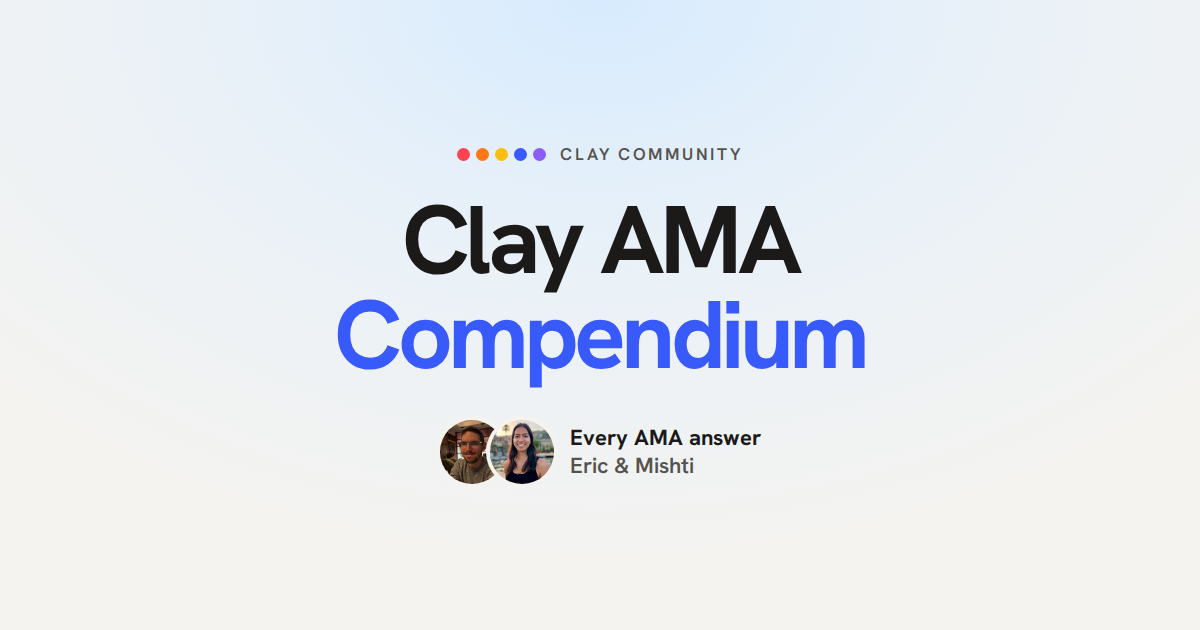
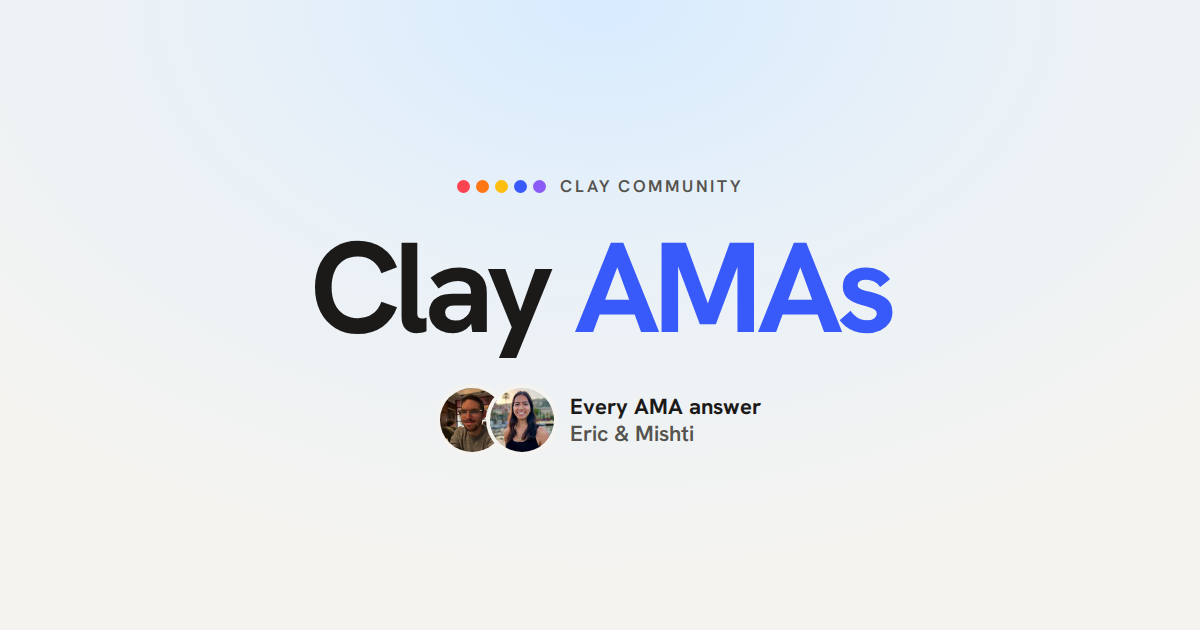
Rename to Clay AMAs
Title, masthead (AMAs in blue), tab and home-screen name, link preview image, RSS, structured data, share image, exports and Slack copy, the sign-in email and the report page. Repo, package and Vercel identifiers keep their old names.

Claude-Session: https://claude.ai/code/session_01W5nF1Z1w9NU7X8aJssRygM

Changed region(s): [[0.2467, 0.2111, 0.7708, 0.7841]]

diff --git a/src/index.html b/src/index.html
@@ -1,4 +1,4 @@
-<title>Clay AMA Compendium</title>
+<title>Clay AMAs</title>
 <link rel="preconnect" href="https://fonts.googleapis.com">
 <link rel="preconnect" href="https://fonts.gstatic.com" crossorigin>
 <link rel="stylesheet" href="https://fonts.googleapis.com/css2?family=Hanken+Grotesk:ital,wght@0,400..800;1,400&display=swap">
@@ -949,7 +949,7 @@ canvas.confetti{position:fixed; inset:0; width:100vw; height:100vh; pointer-even
 <div class="wrap">
   <header class="mast">
     <div class="eyebrow"><span class="fruit" aria-hidden="true"><i style="background:var(--f1)"></i><i style="background:var(--f2)"></i><i style="background:var(--f3)"></i><i style="background:var(--f4)"></i><i style="background:var(--f5)"></i></span><span>Unofficial<span class="long"> · From the Clay Community Slack</span></span><a class="join" id="joinBtn" href="https://www.clay.com/slack-community" target="_blank" rel="noopener">Join the community <svg width="11" height="11" viewBox="0 0 12 12" aria-hidden="true"><path d="M4.5 2.5h5v5M9.3 2.7 3 9" fill="none" stroke="currentColor" stroke-width="1.6" stroke-linecap="round" stroke-linejoin="round"/></svg></a></div>
-    <h1>Clay AMA <em>Compendium</em></h1>
+    <h1>Clay <em>AMAs</em></h1>
     <div class="stats" id="stats">Loading…</div>
     <div class="viewrow"><nav class="views" aria-label="Views"><a href="#" data-view="feed" aria-current="page">All answers</a><a href="#topics" data-view="lib">By topic</a></nav></div>
   </header>
@@ -963,7 +963,7 @@ canvas.confetti{position:fixed; inset:0; width:100vw; height:100vh; pointer-even
   </div>
   <section class="catchup" id="catchup" aria-label="Swipe mode"></section>
 
-  <section class="search" aria-label="Search the compendium">
+  <section class="search" aria-label="Search the answers">
     <form id="askForm" role="search">
       <input id="q" type="search" autocomplete="off" placeholder="Search questions, answers or people" aria-label="Search questions, answers or people">
     </form>
@@ -1286,7 +1286,7 @@ async function drawShare(){
   ctx.clearRect(0, 0, W, H); ctx.fillStyle = OAT; ctx.fillRect(0, 0, W, H);
   ctx.textBaseline = "alphabetic"; ctx.textAlign = "left";
   // header
-  ctx.font = `600 24px ${SANS}`; ctx.fillStyle = ink(.55); track(3.4); ctx.fillText("CLAY AMA COMPENDIUM", M, M + 20); track(0);
+  ctx.font = `600 24px ${SANS}`; ctx.fillStyle = ink(.55); track(3.4); ctx.fillText("CLAY AMAS", M, M + 20); track(0);
   // bottom band, laid out upward from the bottom margin
   const main = qa.replies.find(r => r.role === "guest");
   const when = (main ? tsDate(main.ts) : sessDate(s)).toLocaleDateString(undefined, { month: "short", year: "numeric" });
@@ -1776,7 +1776,7 @@ function toolbox(action, btn){
     download("clay-ama-archive.csv", [head, ...rows].map(r => r.map(csvCell).join(",")).join("\n"), btn); return;
   }
   if (action === "md"){
-    let md = `# Clay AMA Compendium: full archive\n\nExported ${fmtDate(new Date())}. ${QAS.length} questions.\n\n`;
+    let md = `# Clay AMAs: full archive\n\nExported ${fmtDate(new Date())}. ${QAS.length} questions.\n\n`;
     for (const qa of QAS){
       md += `## ${qa.title}\n\n**${qa.asker} asked** (${fmtDate(tsDate(qa.qts))}):\n\n> ${qa.question.replace(/\n/g, "\n> ")}\n\n`;
       for (const r of qa.replies) md += `**${r.by}**${r.role === "guest" ? " (Clay guest)" : ""}, ${fmtDate(tsDate(r.ts))}:\n\n${r.text}\n\n`;
@@ -1833,7 +1833,7 @@ function openSignin(expired){
   if (!ON_SITE) return;
   if (caps.editor){ modalBack = null; openModal("Toolbox", editorHTML()); return; }
   modalBack = null;
-  openModal("Editor sign-in", `<p class="note">${expired ? "That link has expired or was already replaced. Request a new one." : "For the people who look after the Compendium. Enter your email and we'll send a sign-in link."}</p>
+  openModal("Editor sign-in", `<p class="note">${expired ? "That link has expired or was already replaced. Request a new one." : "For the people who look after Clay AMAs. Enter your email and we'll send a sign-in link."}</p>
     <form id="signinForm" class="signin"><input id="signinEmail" type="email" autocomplete="email" required placeholder="you@company.com" aria-label="Email address"><button class="btn primary" type="submit">Email me a link</button></form>
     <p class="note" id="signinStatus" role="status"></p>`);
   setTimeout(() => $("#signinEmail")?.focus(), 60);
@@ -2070,7 +2070,7 @@ async function saveMarkdown(){
   track("download_markdown");
   const list = filtered();
   const who = st.asker ? `Questions from ${st.asker}` : st.guest === "all" ? "All speakers" : SESS[st.guest].guest;
-  let md = `# Clay AMA Compendium: ${who}${st.topic ? " · " + st.topic : ""}\n\nExported ${fmtDate(new Date())}. ${list.length} questions. Unofficial archive of the Clay Community AMA channel.\n\n`;
+  let md = `# Clay AMAs: ${who}${st.topic ? " · " + st.topic : ""}\n\nExported ${fmtDate(new Date())}. ${list.length} questions. Unofficial archive of the Clay Community AMA channel.\n\n`;
   for (const qa of list){
     md += `## ${qa.title}\n\n**${qa.asker} asked** (${fmtDate(tsDate(qa.qts))}):\n\n> ${qa.question.replace(/\n/g,"\n> ")}\n\n`;
     for (const r of qa.replies){ md += `**${r.by}**${r.role==="guest"?" (Clay guest)":r.role==="host"?" (Clay community team)":""}, ${fmtDate(tsDate(r.ts))}:\n\n${r.text}\n\n`; }
@@ -2132,7 +2132,7 @@ function libShare(t){
     box.querySelectorAll("input").forEach(i => { i.disabled = !i.checked && on.length >= 5; });
     const picked = qs.filter(q => on.some(i => i.value === q.id)), more = qs.length - picked.length;
     $("#tsText").value = `What Clay's AMA guests have said about ${t}:\n\n` + picked.map(q => `• ${q.title} — ${SESS[q.session].guest}${q.url ? ": " + q.url : ""}`).join("\n")
-      + (more > 0 ? `\n\n${more} more answer${more === 1 ? "" : "s"} on this topic in the Clay AMA Compendium: ${SITE_URL}` : `\n\nMore from Clay's AMAs in the Compendium: ${SITE_URL}`);
+      + (more > 0 ? `\n\n${more} more answer${more === 1 ? "" : "s"} on this topic on Clay AMAs: ${SITE_URL}` : `\n\nMore from Clay's AMAs: ${SITE_URL}`);
   };
   box.addEventListener("change", update); update();
 }
@@ -2425,7 +2425,7 @@ function peekQA(id){
     <div class="mact"><button class="btn small" type="button" data-share="${esc(qa.id)}">${ICON_IMG} Share as image</button><span class="sp"></span>${qa.url ? `<a class="lk" href="${esc(qa.url)}" target="_blank" rel="noopener">Community thread ${ICON_OUT}</a>` : ""}</div>`);
 }
 function keptMarkdown(list){
-  return `# Answers I kept from Clay's AMAs\n\n` + list.map(q => `## ${q.title}\n*${SESS[q.session].guest} · asked by ${q.asker}*\n\n${guestAnswer(q)}\n\n${q.url ? `Thread: ${q.url}\n\n` : ""}`).join("") + `From the Clay AMA Compendium: ${SITE_URL}\n`;
+  return `# Answers I kept from Clay's AMAs\n\n` + list.map(q => `## ${q.title}\n*${SESS[q.session].guest} · asked by ${q.asker}*\n\n${guestAnswer(q)}\n\n${q.url ? `Thread: ${q.url}\n\n` : ""}`).join("") + `From Clay AMAs: ${SITE_URL}\n`;
 }
 function keptFile(btn){ const list = keptList(); track("kept_download", { count: list.length }); if (list.length) download("clay-ama-kept.md", new Blob([keptMarkdown(list)], { type: "text/markdown" }), btn); }
 // One link carries a whole collection: open it on another device, or send it to someone, and it plays as a deck
@@ -2438,11 +2438,11 @@ async function shareCollection(btn){
   try { await navigator.clipboard.writeText(url); btn.textContent = "Link copied"; setTimeout(() => { btn.innerHTML = label; }, 1800); }
   catch { textSheet("Share collection", "Open this link on another device to bring your kept answers with you, or send it to someone.", url); }
 }
-function keptCopy(){ copyList(keptList(), "Answers I kept from Clay's AMAs", "More in the Clay AMA Compendium"); }
+function keptCopy(){ copyList(keptList(), "Answers I kept from Clay's AMAs", "More on Clay AMAs"); }
 function deckCopy(){
   const kept = DECK.kept.map(id => QAS.find(q => q.id === id)).filter(Boolean); if (!kept.length) return;
   const src = DECK.spec.kind === "s" ? DECK.title : DECK.spec.kind === "t" ? `Clay's AMAs on ${DECK.title}` : "Clay's AMAs";
-  copyList(kept, `Answers I kept from ${src}`, `Swipe through ${DECK.spec.kind === "s" ? DECK.title : "them"} yourself in the Clay AMA Compendium`);
+  copyList(kept, `Answers I kept from ${src}`, `Swipe through ${DECK.spec.kind === "s" ? DECK.title : "them"} yourself on Clay AMAs`);
 }
 function copyList(kept, lead, tail){
   if (!kept.length) return;

diff --git a/api/auth/request.js b/api/auth/request.js
@@ -12,13 +12,13 @@ export default async function handler(req, res){
       method: "POST",
       headers: { Authorization: `Bearer ${process.env.RESEND_API_KEY}`, "Content-Type": "application/json" },
       body: JSON.stringify({
-        from: process.env.EMAIL_FROM || "Clay AMA Compendium <signin@smallgenai.com>",
+        from: process.env.EMAIL_FROM || "Clay AMAs <signin@smallgenai.com>",
         to: [email],
-        subject: "Your sign-in link for the Clay AMA Compendium",
-        text: `Sign in to the Clay AMA Compendium Toolbox:\n\n${link}\n\nThe link works for 15 minutes. If you didn't ask for it, ignore this email.`,
+        subject: "Your sign-in link for Clay AMAs",
+        text: `Sign in to the Clay AMAs Toolbox:\n\n${link}\n\nThe link works for 15 minutes. If you didn't ask for it, ignore this email.`,
         html: `<div style="font:15px/1.5 -apple-system,Segoe UI,Arial,sans-serif;color:#1B1A18;max-width:480px">
           <p style="margin:0 0 6px;font-weight:700;font-size:18px">Sign in to the Toolbox</p>
-          <p style="margin:0 0 20px;color:#55534E">Clay AMA Compendium · editors only</p>
+          <p style="margin:0 0 20px;color:#55534E">Clay AMAs · editors only</p>
           <p style="margin:0 0 24px"><a href="${link}" style="display:inline-block;background:#000;color:#fff;text-decoration:none;padding:12px 20px;border-radius:12px;font-weight:600">Sign in</a></p>
           <p style="margin:0;color:#7B7974;font-size:13px">The link works for 15 minutes. If you didn't ask for it, you can ignore this email.</p></div>`,
       }),

diff --git a/public/report.html b/public/report.html
@@ -174,7 +174,7 @@ td .who a:hover b{text-decoration:underline; text-underline-offset:3px}
 <body>
 <div class="wrap">
   <header>
-    <div class="top noprint"><a class="back" href="./">← Compendium</a><a class="back" id="progLink" href="report.html" hidden>All AMAs</a><span class="sp"></span><button class="btn" type="button" id="printBtn">Save as PDF</button></div>
+    <div class="top noprint"><a class="back" href="./">← Clay AMAs</a><a class="back" id="progLink" href="report.html" hidden>All AMAs</a><span class="sp"></span><button class="btn" type="button" id="printBtn">Save as PDF</button></div>
     <div class="gtop"><img id="gPhoto" alt="" hidden><h1 id="title">AMA report</h1></div>
     <div class="sub" id="sub">Loading…</div>
     <p class="headline" id="headline"></p>

diff --git a/README.md b/README.md
@@ -1,4 +1,4 @@
-# Clay AMA Compendium
+# Clay AMAs
 
 **Live at [ama.smallgenai.com](https://ama.smallgenai.com)**
 
@@ -51,7 +51,7 @@ Editors sign in from the footer ("Editor sign-in") with an emailed link and get 
 | `SESSION_SECRET` | Long random string that signs sign-in links and sessions |
 | `ALLOWED_EDITORS` | Comma-separated emails that can sign in, optionally with a display name: `you@x.com=Kartik,shriya@y.com=Shriya` |
 | `RESEND_API_KEY` | Sends the sign-in emails |
-| `EMAIL_FROM` | e.g. `Clay AMA Compendium <signin@smallgenai.com>` (a domain verified in Resend) |
+| `EMAIL_FROM` | e.g. `Clay AMAs <signin@smallgenai.com>` (a domain verified in Resend) |
 | `GITHUB_TOKEN` | Fine-grained token with contents read/write on this repo |
 
 ## Analytics
